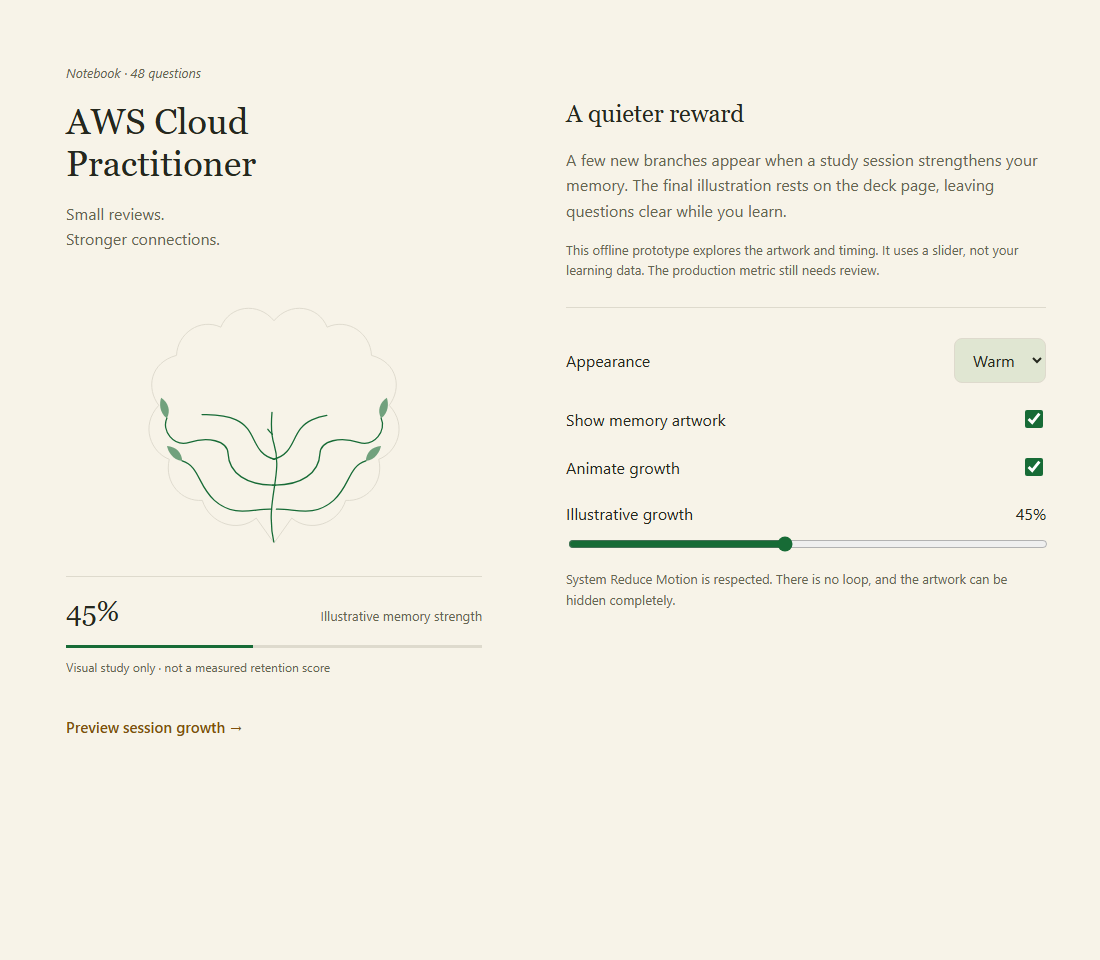
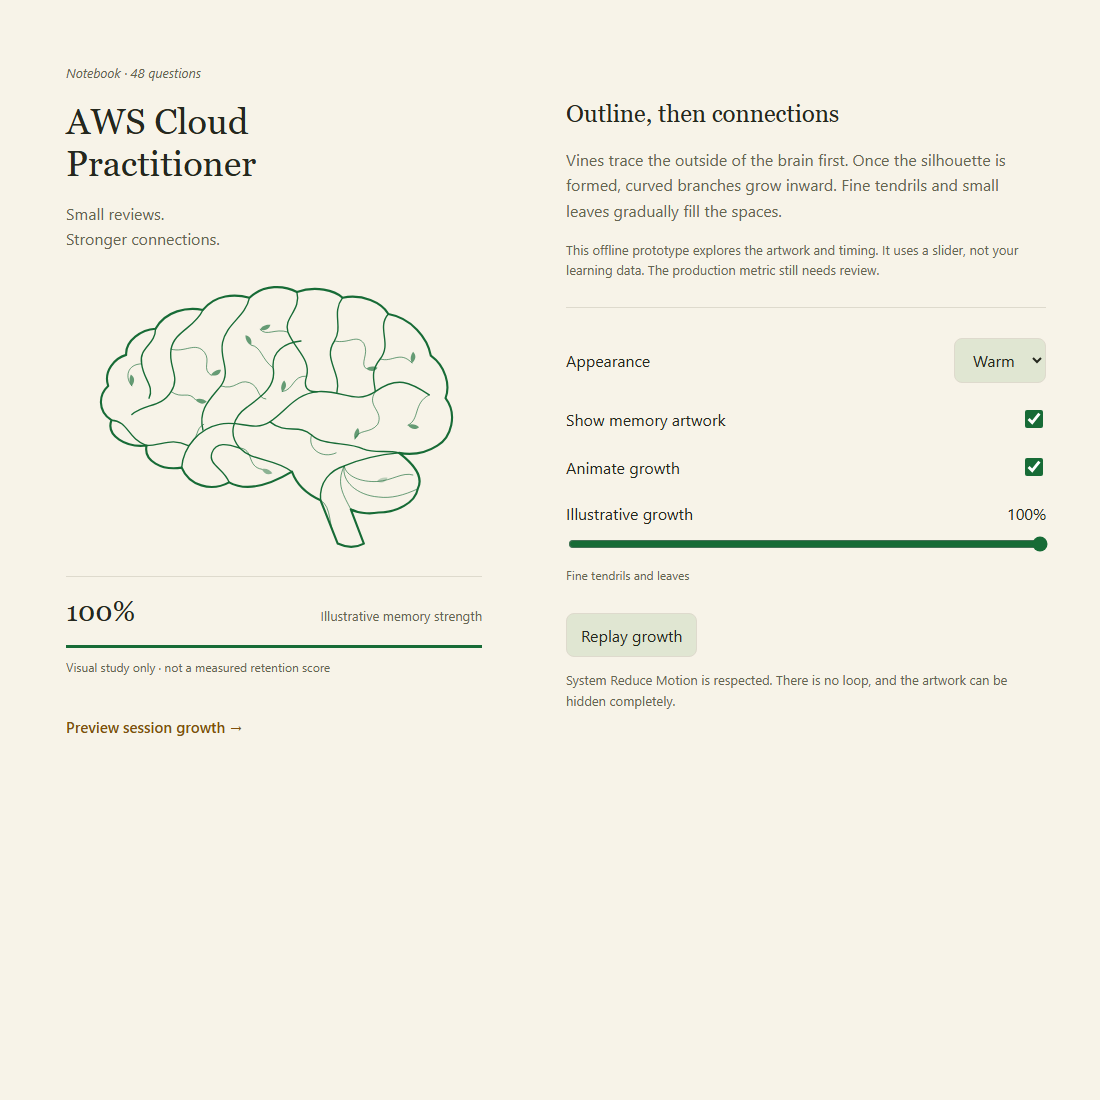
Prototype side-profile vine growth from outline to interior

diff --git a/design/previews/memory-growth/index.html b/design/previews/memory-growth/index.html
@@ -11,7 +11,8 @@
   main{max-width:1040px;margin:0 auto;padding:48px 24px;display:grid;grid-template-columns:minmax(280px,440px) 1fr;gap:72px}
   .deck{padding:16px 12px}.metadata{font-size:13px;font-style:italic;color:var(--muted)}h1{font:36px/1.16 Georgia,serif;font-weight:normal;margin:20px 0 8px}p{line-height:1.6;color:var(--muted)}
   .art{height:290px;position:relative;margin:22px 0 12px}.art[hidden]{display:none}.art svg{width:100%;height:100%;overflow:visible}
-  .outline{fill:none;stroke:var(--line);stroke-width:1.2}.stem{fill:none;stroke:var(--green);stroke-width:1.6;stroke-linecap:round;stroke-linejoin:round;transition:stroke-dashoffset .8s cubic-bezier(.2,.7,.2,1)}
+  .outline{fill:none;stroke:var(--line);stroke-width:1;opacity:.32}.stem{fill:none;stroke:var(--green);stroke-width:1.7;stroke-linecap:round;stroke-linejoin:round;transition:stroke-dashoffset .8s cubic-bezier(.2,.7,.2,1)}
+  .stem.perimeter{stroke-width:2.6}.stem.fine{stroke-width:1.05;opacity:.75}.playing .stem,.playing .progress div{transition:none}
   .leaf{fill:var(--green);opacity:0;transition:opacity .5s}.summary{display:flex;justify-content:space-between;align-items:baseline;padding:18px 0;border-top:1px solid var(--line)}.summary strong{font:28px Georgia,serif;font-weight:normal}.summary span{font-size:13px;color:var(--muted)}
   .progress{height:3px;background:var(--line)}.progress div{height:100%;background:var(--green);width:0;transition:width .8s}.caption{font-size:12px;margin:10px 0 28px}.review{border:0;background:none;color:var(--orange);font-family:inherit;font-size:15px;font-weight:600;padding:12px 0;cursor:pointer}
   aside{padding-top:32px}h2{font:24px Georgia,serif;font-weight:normal}label{display:flex;justify-content:space-between;align-items:center;margin:24px 0 10px;gap:16px}select,button{font:inherit;color:var(--ink);background:var(--soft);border:1px solid var(--line);border-radius:8px;padding:10px 14px;min-height:44px}button{cursor:pointer}button:disabled{opacity:.5;cursor:default}input[type=range]{width:100%;accent-color:var(--green)}input[type=checkbox]{width:18px;height:18px;accent-color:var(--green)}.demo-note{font-size:13px}.controls{border-top:1px solid var(--line);margin-top:26px;padding-top:6px}.no-motion .stem,.no-motion .leaf,.no-motion .progress div{transition:none}
@@ -24,11 +25,12 @@
     <h1>AWS Cloud<br>Practitioner</h1>
     <p>Small reviews.<br>Stronger connections.</p>
     <div class="art" id="art">
-      <svg viewBox="0 0 400 360" role="img" aria-labelledby="artTitle artDescription">
-        <title id="artTitle">A brain traced by growing vines</title>
-        <desc id="artDescription">Decorative memory-strength illustration. Growth is an illustrative prototype value.</desc>
-        <defs><clipPath id="brainClip"><path d="M200 58 C180 34 145 39 134 66 C108 54 80 74 79 101 C46 110 41 142 57 163 C33 189 48 222 70 230 C63 260 86 283 111 281 C120 310 155 322 178 303 L200 334 L222 303 C245 322 280 310 289 281 C314 283 337 260 330 230 C352 222 367 189 343 163 C359 142 354 110 321 101 C320 74 292 54 266 66 C255 39 220 34 200 58 Z"/></clipPath></defs>
-        <path class="outline" d="M200 58 C180 34 145 39 134 66 C108 54 80 74 79 101 C46 110 41 142 57 163 C33 189 48 222 70 230 C63 260 86 283 111 281 C120 310 155 322 178 303 L200 334 L222 303 C245 322 280 310 289 281 C314 283 337 260 330 230 C352 222 367 189 343 163 C359 142 354 110 321 101 C320 74 292 54 266 66 C255 39 220 34 200 58 Z"/>
+      <svg viewBox="35 35 460 355" role="img" aria-labelledby="artTitle artDescription">
+        <title id="artTitle">A side-profile brain grown from vines</title>
+        <desc id="artDescription">Vines first trace the brain silhouette, then branch through the interior. This is decorative illustrative growth, not a measured retention score.</desc>
+        <defs><clipPath id="brainClip"><path id="brainShape"/></clipPath></defs>
+        <path class="outline" id="brainGuide"/>
+        <g id="outlineVines"></g>
         <g clip-path="url(#brainClip)" id="vines"></g>
       </svg>
     </div>
@@ -38,8 +40,8 @@
     <button class="review" id="complete">Preview session growth →</button>
   </section>
   <aside>
-    <h2>A quieter reward</h2>
-    <p>A few new branches appear when a study session strengthens your memory. The final illustration rests on the deck page, leaving questions clear while you learn.</p>
+    <h2>Outline, then connections</h2>
+    <p>Vines trace the outside of the brain first. Once the silhouette is formed, curved branches grow inward. Fine tendrils and small leaves gradually fill the spaces.</p>
     <p class="demo-note">This offline prototype explores the artwork and timing. It uses a slider, not your learning data. The production metric still needs review.</p>
     <div class="controls">
       <label for="theme">Appearance <select id="theme"><option value="warm">Warm</option><option value="white">White</option><option value="black">Black</option></select></label>
@@ -47,33 +49,70 @@
       <label for="motion">Animate growth <input type="checkbox" id="motion" checked></label>
       <label for="amount">Illustrative growth <output id="value">45%</output></label>
       <input type="range" id="amount" min="0" max="100" value="45">
+      <p class="caption" id="phase">Growing inward</p>
+      <button id="replay">Replay growth</button>
       <p class="demo-note">System Reduce Motion is respected. There is no loop, and the artwork can be hidden completely.</p>
     </div>
   </aside>
 </main>
 <script>
-  const ns='http://www.w3.org/2000/svg',container=document.getElementById('vines');
+  const ns='http://www.w3.org/2000/svg', container=document.getElementById('vines');
+  const silhouette='M343 365 L322 312 C304 304 292 291 287 277 C262 292 234 303 210 290 C188 302 161 294 152 272 C128 276 105 264 109 245 C84 248 59 233 66 214 C48 202 51 182 62 172 C56 154 70 138 84 134 C83 116 103 103 120 102 C132 80 159 75 178 79 C193 60 217 59 235 64 C253 47 278 49 293 57 C316 49 339 55 349 64 C373 59 397 70 405 84 C433 89 453 113 457 135 C475 148 481 171 475 187 C490 207 482 235 465 245 C451 254 435 257 418 254 C435 267 449 282 441 298 C438 315 415 327 393 327 C382 329 368 328 359 323 L375 365 Q360 373 343 365 Z';
+  document.getElementById('brainShape').setAttribute('d',silhouette);
+  document.getElementById('brainGuide').setAttribute('d',silhouette);
   const paths=[];
-  function stem(d,start,span){const p=document.createElementNS(ns,'path');p.setAttribute('d',d);p.setAttribute('class','stem');container.append(p);const length=p.getTotalLength();p.style.strokeDasharray=length;p.style.strokeDashoffset=length;paths.push({p,length,start,span});}
-  function leaf(x,y,angle,threshold){const p=document.createElementNS(ns,'path');p.setAttribute('d','M0 0 C-2 -12 7 -20 13 -23 C15 -12 10 -3 0 0Z');p.setAttribute('transform',`translate(${x},${y}) rotate(${angle})`);p.setAttribute('class','leaf');container.append(p);p.dataset.threshold=threshold;}
-  stem('M200 334 C188 282 212 250 200 211 C189 177 210 136 200 63',0,.75);
-  const branches=[
-    {d:'M197 292 C174 291 151 303 126 281 C105 262 108 239 86 232',x:86,y:232,a:-75,t:.12},
-    {d:'M202 262 C166 263 144 247 143 223 C142 206 117 202 95 209 C75 215 60 194 67 179',x:67,y:179,a:-45,t:.22},
-    {d:'M201 230 C171 223 180 193 153 181 C123 167 96 184 85 162 C77 145 80 126 65 124',x:65,y:124,a:-100,t:.33},
-    {d:'M198 199 C178 181 192 161 165 152 C142 145 138 126 111 130 C93 135 85 116 98 99',x:98,y:99,a:-15,t:.44},
-    {d:'M200 165 C171 158 176 131 158 112 C145 97 128 112 119 97 C108 83 121 73 134 80',x:134,y:80,a:50,t:.55},
-    {d:'M200 128 C183 114 188 91 170 84 C153 77 161 58 176 62',x:176,y:62,a:10,t:.66},
-    {d:'M195 295 C180 279 183 250 165 239',x:165,y:239,a:-20,t:.73}
+  function stem(d,start,span,kind='',parent=container){const p=document.createElementNS(ns,'path');p.setAttribute('d',d);p.setAttribute('class','stem '+kind);parent.append(p);const length=p.getTotalLength();p.style.strokeDasharray=length;p.style.strokeDashoffset=length;paths.push({p,length,start,span});return p;}
+  function leaf(x,y,angle,threshold){const p=document.createElementNS(ns,'path');p.setAttribute('d','M0 0 C-1 -5 3 -10 7 -12 C9 -6 6 -2 0 0Z');p.setAttribute('transform',`translate(${x},${y}) rotate(${angle})`);p.setAttribute('class','leaf');p.dataset.threshold=threshold;container.append(p);}
+  stem(silhouette,0,.35,'perimeter',document.getElementById('outlineVines'));
+  const folds=[
+    'M152 272 C154 246 174 224 198 219 C223 213 239 229 260 216 C282 201 290 182 319 179 C349 177 365 195 389 179 C416 160 431 167 455 183',
+    'M287 277 C265 260 239 265 223 248 C208 231 215 210 232 198 C251 184 268 172 264 150 C262 130 278 119 298 117',
+    'M235 64 C230 88 207 95 202 119 C198 140 213 153 200 172 C186 189 172 201 178 226',
+    'M178 79 C168 101 143 105 139 127 C135 149 151 160 139 179 C127 199 107 193 91 207',
+    'M293 57 C299 79 276 89 282 106 C291 128 310 139 305 160 C301 172 304 180 319 179',
+    'M349 64 C335 83 350 99 339 117 C324 139 348 155 342 180',
+    'M405 84 C390 101 410 120 395 139 C382 155 388 166 389 179',
+    'M66 214 C87 215 85 236 109 245 C128 245 139 235 160 245',
+    'M120 102 C120 122 99 125 103 145 C105 164 119 172 112 187',
+    'M210 290 C204 273 184 269 189 254 C194 240 208 243 223 248',
+    'M260 216 C280 232 295 218 311 232 C326 246 355 240 374 249 C389 255 403 250 418 254',
+    'M322 312 C320 290 334 275 351 270 C372 261 396 256 418 254'
   ];
-  branches.forEach((b,i)=>{stem(b.d,b.t,.20);leaf(b.x,b.y,b.a,Math.min(.99,b.t+.18));const g=document.createElementNS(ns,'g');g.setAttribute('transform','translate(400 0) scale(-1 1)');container.append(g);const p=document.createElementNS(ns,'path');p.setAttribute('d',b.d);p.setAttribute('class','stem');g.append(p);const length=p.getTotalLength();p.style.strokeDasharray=length;p.style.strokeDashoffset=length;paths.push({p,length,start:b.t+.025,span:.20});const l=document.createElementNS(ns,'path');l.setAttribute('d','M0 0 C-2 -12 7 -20 13 -23 C15 -12 10 -3 0 0Z');l.setAttribute('transform',`translate(${b.x},${b.y}) rotate(${b.a})`);l.setAttribute('class','leaf');l.dataset.threshold=Math.min(.99,b.t+.205);g.append(l);});
-  const amount=document.getElementById('amount');
-  function render(){const v=Number(amount.value)/100;paths.forEach(({p,length,start,span})=>p.style.strokeDashoffset=length*(1-Math.max(0,Math.min(1,(v-start)/span))));container.querySelectorAll('.leaf').forEach(p=>p.style.opacity=v>=Number(p.dataset.threshold)?'.6':'0');document.getElementById('bar').style.width=amount.value+'%';document.getElementById('strength').textContent=amount.value+'%';document.getElementById('value').value=amount.value+'%';}
-  amount.addEventListener('input',render);
+  folds.forEach((d,i)=>stem(d,.35+i*.025,.20));
+  const tendrils=[
+    'M139 127 C156 132 169 117 180 131 C188 142 176 151 188 159',
+    'M103 145 C85 145 82 162 91 172',
+    'M139 179 C153 189 160 177 169 189',
+    'M200 172 C218 178 221 163 235 168 C248 173 244 187 255 188',
+    'M264 150 C249 139 250 124 237 122',
+    'M282 106 C265 101 257 112 248 103',
+    'M305 160 C287 159 290 177 275 179',
+    'M339 117 C357 121 366 108 375 120 C382 133 369 145 378 151',
+    'M395 139 C410 144 419 128 434 144',
+    'M455 183 C435 193 444 213 429 220',
+    'M389 179 C377 197 400 202 392 219 C383 231 368 224 364 237',
+    'M311 232 C305 249 324 262 341 254',
+    'M223 248 C241 249 231 271 250 274',
+    'M160 245 C174 236 168 224 179 219',
+    'M351 270 C353 283 372 290 391 289 C410 288 422 277 435 281',
+    'M351 270 C347 289 367 306 393 308 C408 310 424 306 441 298',
+    'M351 270 C340 292 351 307 359 323',
+    'M322 312 C337 320 330 344 343 365'
+  ];
+  tendrils.forEach((d,i)=>stem(d,.65+i*.013,.12,'fine'));
+  [[188,159,30],[91,172,-35],[169,189,70],[237,122,-60],[248,103,35],[275,179,-20],[378,151,55],[434,144,-25],[429,220,70],[364,237,-15],[250,274,80],[391,289,40]].forEach(([x,y,a],i)=>leaf(x,y,a,.78+i*.018));
+  const amount=document.getElementById('amount'), replay=document.getElementById('replay');
+  const reduced=matchMedia('(prefers-reduced-motion:reduce)'); let frame=0;
+  function render(){const v=Number(amount.value)/100;paths.forEach(({p,length,start,span})=>p.style.strokeDashoffset=length*(1-Math.max(0,Math.min(1,(v-start)/span))));container.querySelectorAll('.leaf').forEach(p=>p.style.opacity=Math.max(0,Math.min(.65,(v-Number(p.dataset.threshold))*12)));document.getElementById('bar').style.width=amount.value+'%';document.getElementById('strength').textContent=amount.value+'%';document.getElementById('value').value=amount.value+'%';document.getElementById('phase').textContent=v<.35?'Tracing the silhouette':v<.75?'Growing inward':'Fine tendrils and leaves';}
+  function stop(){cancelAnimationFrame(frame);frame=0;document.body.classList.remove('playing');replay.textContent='Replay growth';}
+  amount.addEventListener('input',()=>{stop();render();});
   document.getElementById('theme').addEventListener('change',e=>document.body.dataset.theme=e.target.value);
-  document.getElementById('enabled').addEventListener('change',e=>{document.getElementById('art').hidden=!e.target.checked;document.getElementById('complete').disabled=!e.target.checked;});
-  document.getElementById('motion').addEventListener('change',e=>document.body.classList.toggle('no-motion',!e.target.checked));
-  document.getElementById('complete').addEventListener('click',()=>{amount.value=Math.min(100,Number(amount.value)+12);render();});
+  document.getElementById('enabled').addEventListener('change',e=>{stop();document.getElementById('art').hidden=!e.target.checked;document.getElementById('complete').disabled=!e.target.checked;replay.disabled=!e.target.checked;});
+  document.getElementById('motion').addEventListener('change',e=>{stop();document.body.classList.toggle('no-motion',!e.target.checked);});
+  document.getElementById('complete').addEventListener('click',()=>{stop();amount.value=Math.min(100,Number(amount.value)+12);render();});
+  replay.addEventListener('click',()=>{if(frame){stop();return;}if(reduced.matches||!document.getElementById('motion').checked){amount.value=100;render();return;}document.body.classList.add('playing');amount.value=0;render();replay.textContent='Pause growth';const start=performance.now();function tick(now){amount.value=Math.min(100,((now-start)/9000)*100);render();if(Number(amount.value)<100){frame=requestAnimationFrame(tick);}else{stop();}}frame=requestAnimationFrame(tick);});
+  document.addEventListener('visibilitychange',()=>{if(document.hidden)stop();});reduced.addEventListener('change',()=>{stop();render();});
+  const previewStage=new URLSearchParams(location.search).get('growth');if(previewStage!==null&&Number.isFinite(Number(previewStage)))amount.value=Math.max(0,Math.min(100,Number(previewStage)));
   requestAnimationFrame(render);
 </script>
 </body></html>

diff --git a/docs/REVIEW-LAYOUT-THEMES-VALIDATION.md b/docs/REVIEW-LAYOUT-THEMES-VALIDATION.md
@@ -40,3 +40,9 @@ The assistant header now uses a single quiet context label; in expanded chat, th
 Modern scroll alignment keeps short transcripts near the top without discarding bottom anchoring when content or keyboard size changes. The initial top-only alignment failed the keyboard-return visibility assertion and was corrected before final delivery. Older OS versions retain bottom anchoring. Rich Markdown now accepts optional alignment/text colour, with unchanged defaults for notes and other readers.
 
 All five focused UI tests passed: keyboard return/drag stages, saved history, keyboard/send/expansion, and both Mono screen/chat flows (`/tmp/engram-clean-chat-final.xcresult`). Current/previous chat screenshots were updated and inspected. The signed build was installed and launched on the paired iPhone.
+
+## Side-profile growth prototype
+
+The offline artwork now follows a side-profile brain silhouette. The first 35% traces its perimeter; curved interior branches follow, then fine tendrils and small leaves. Replay demonstrates the complete sequence once over nine seconds; this is demonstration timing, not the proposed production transition. Slider interaction, hiding artwork and backgrounding stop playback. Reduced Motion or disabled animation renders the complete state immediately when replay is requested.
+
+JavaScript syntax and a lightweight control harness passed staging, replay completion, reduced-motion and visibility-toggle checks. Headless Chrome rendered the 30%, 65% and 100% stages; all three screenshots were visually inspected and saved under `current_ui/Prototype/Memory-Growth`. This remains illustrative artwork, with no app or retention-data integration.
